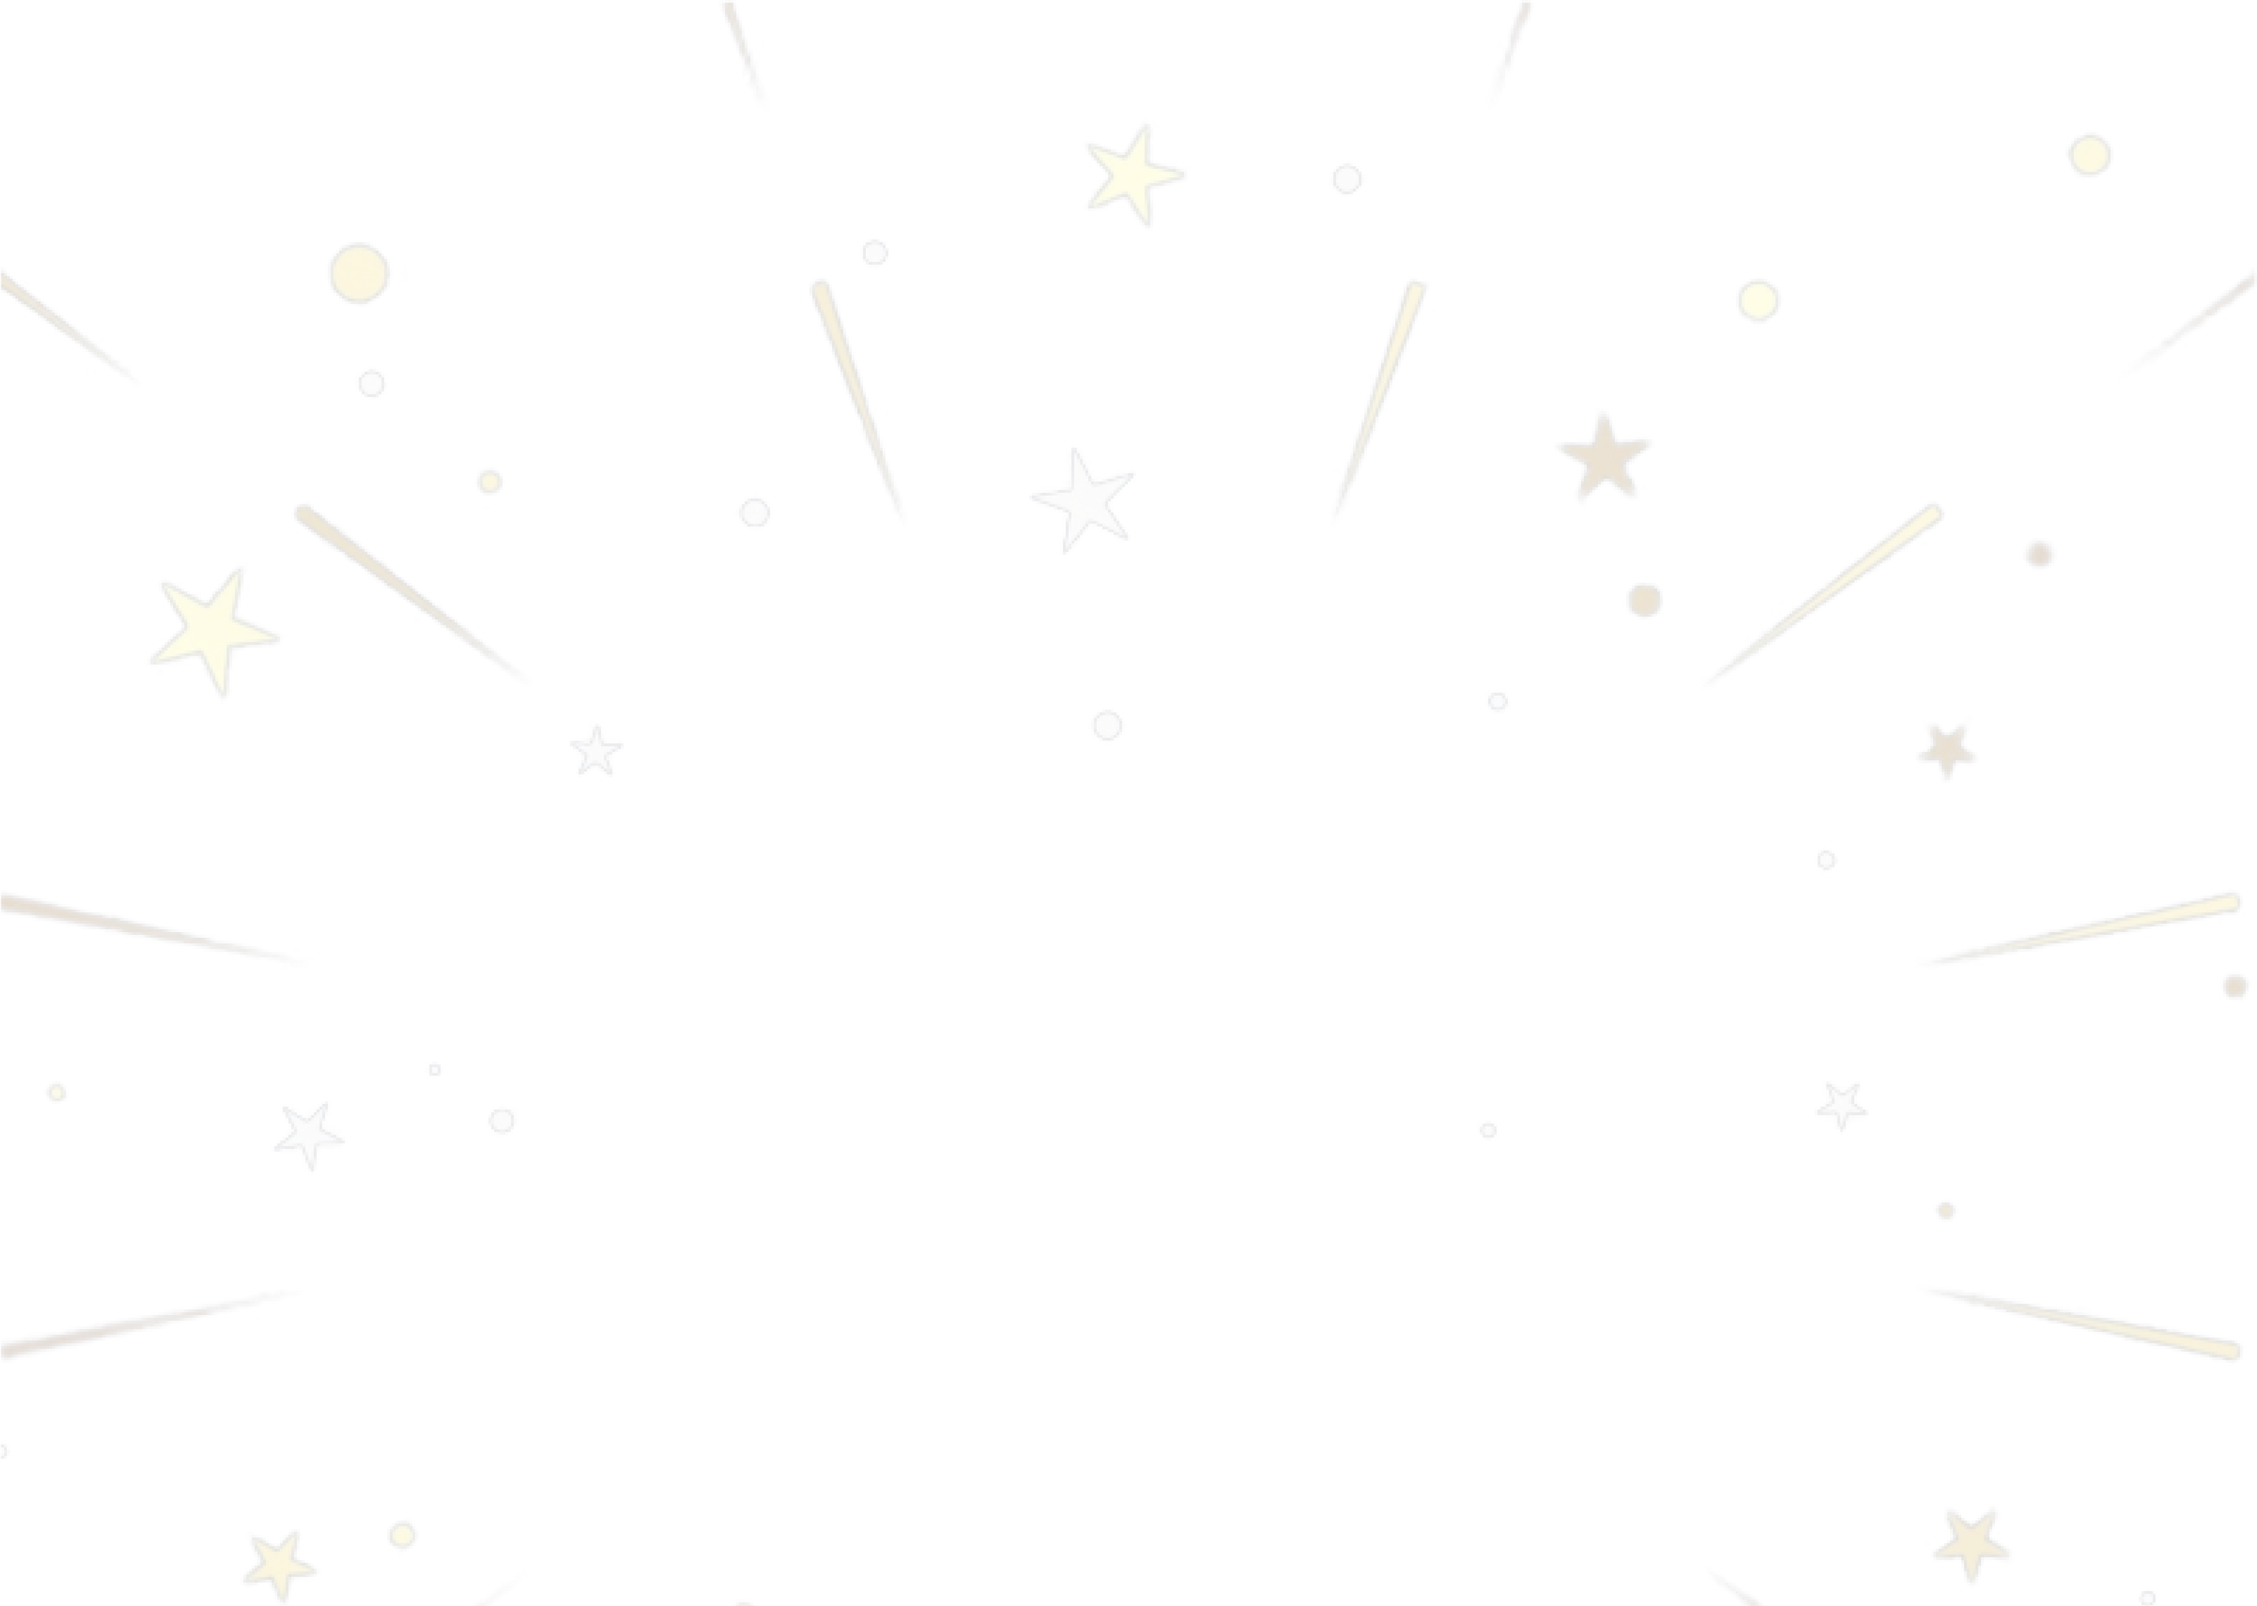
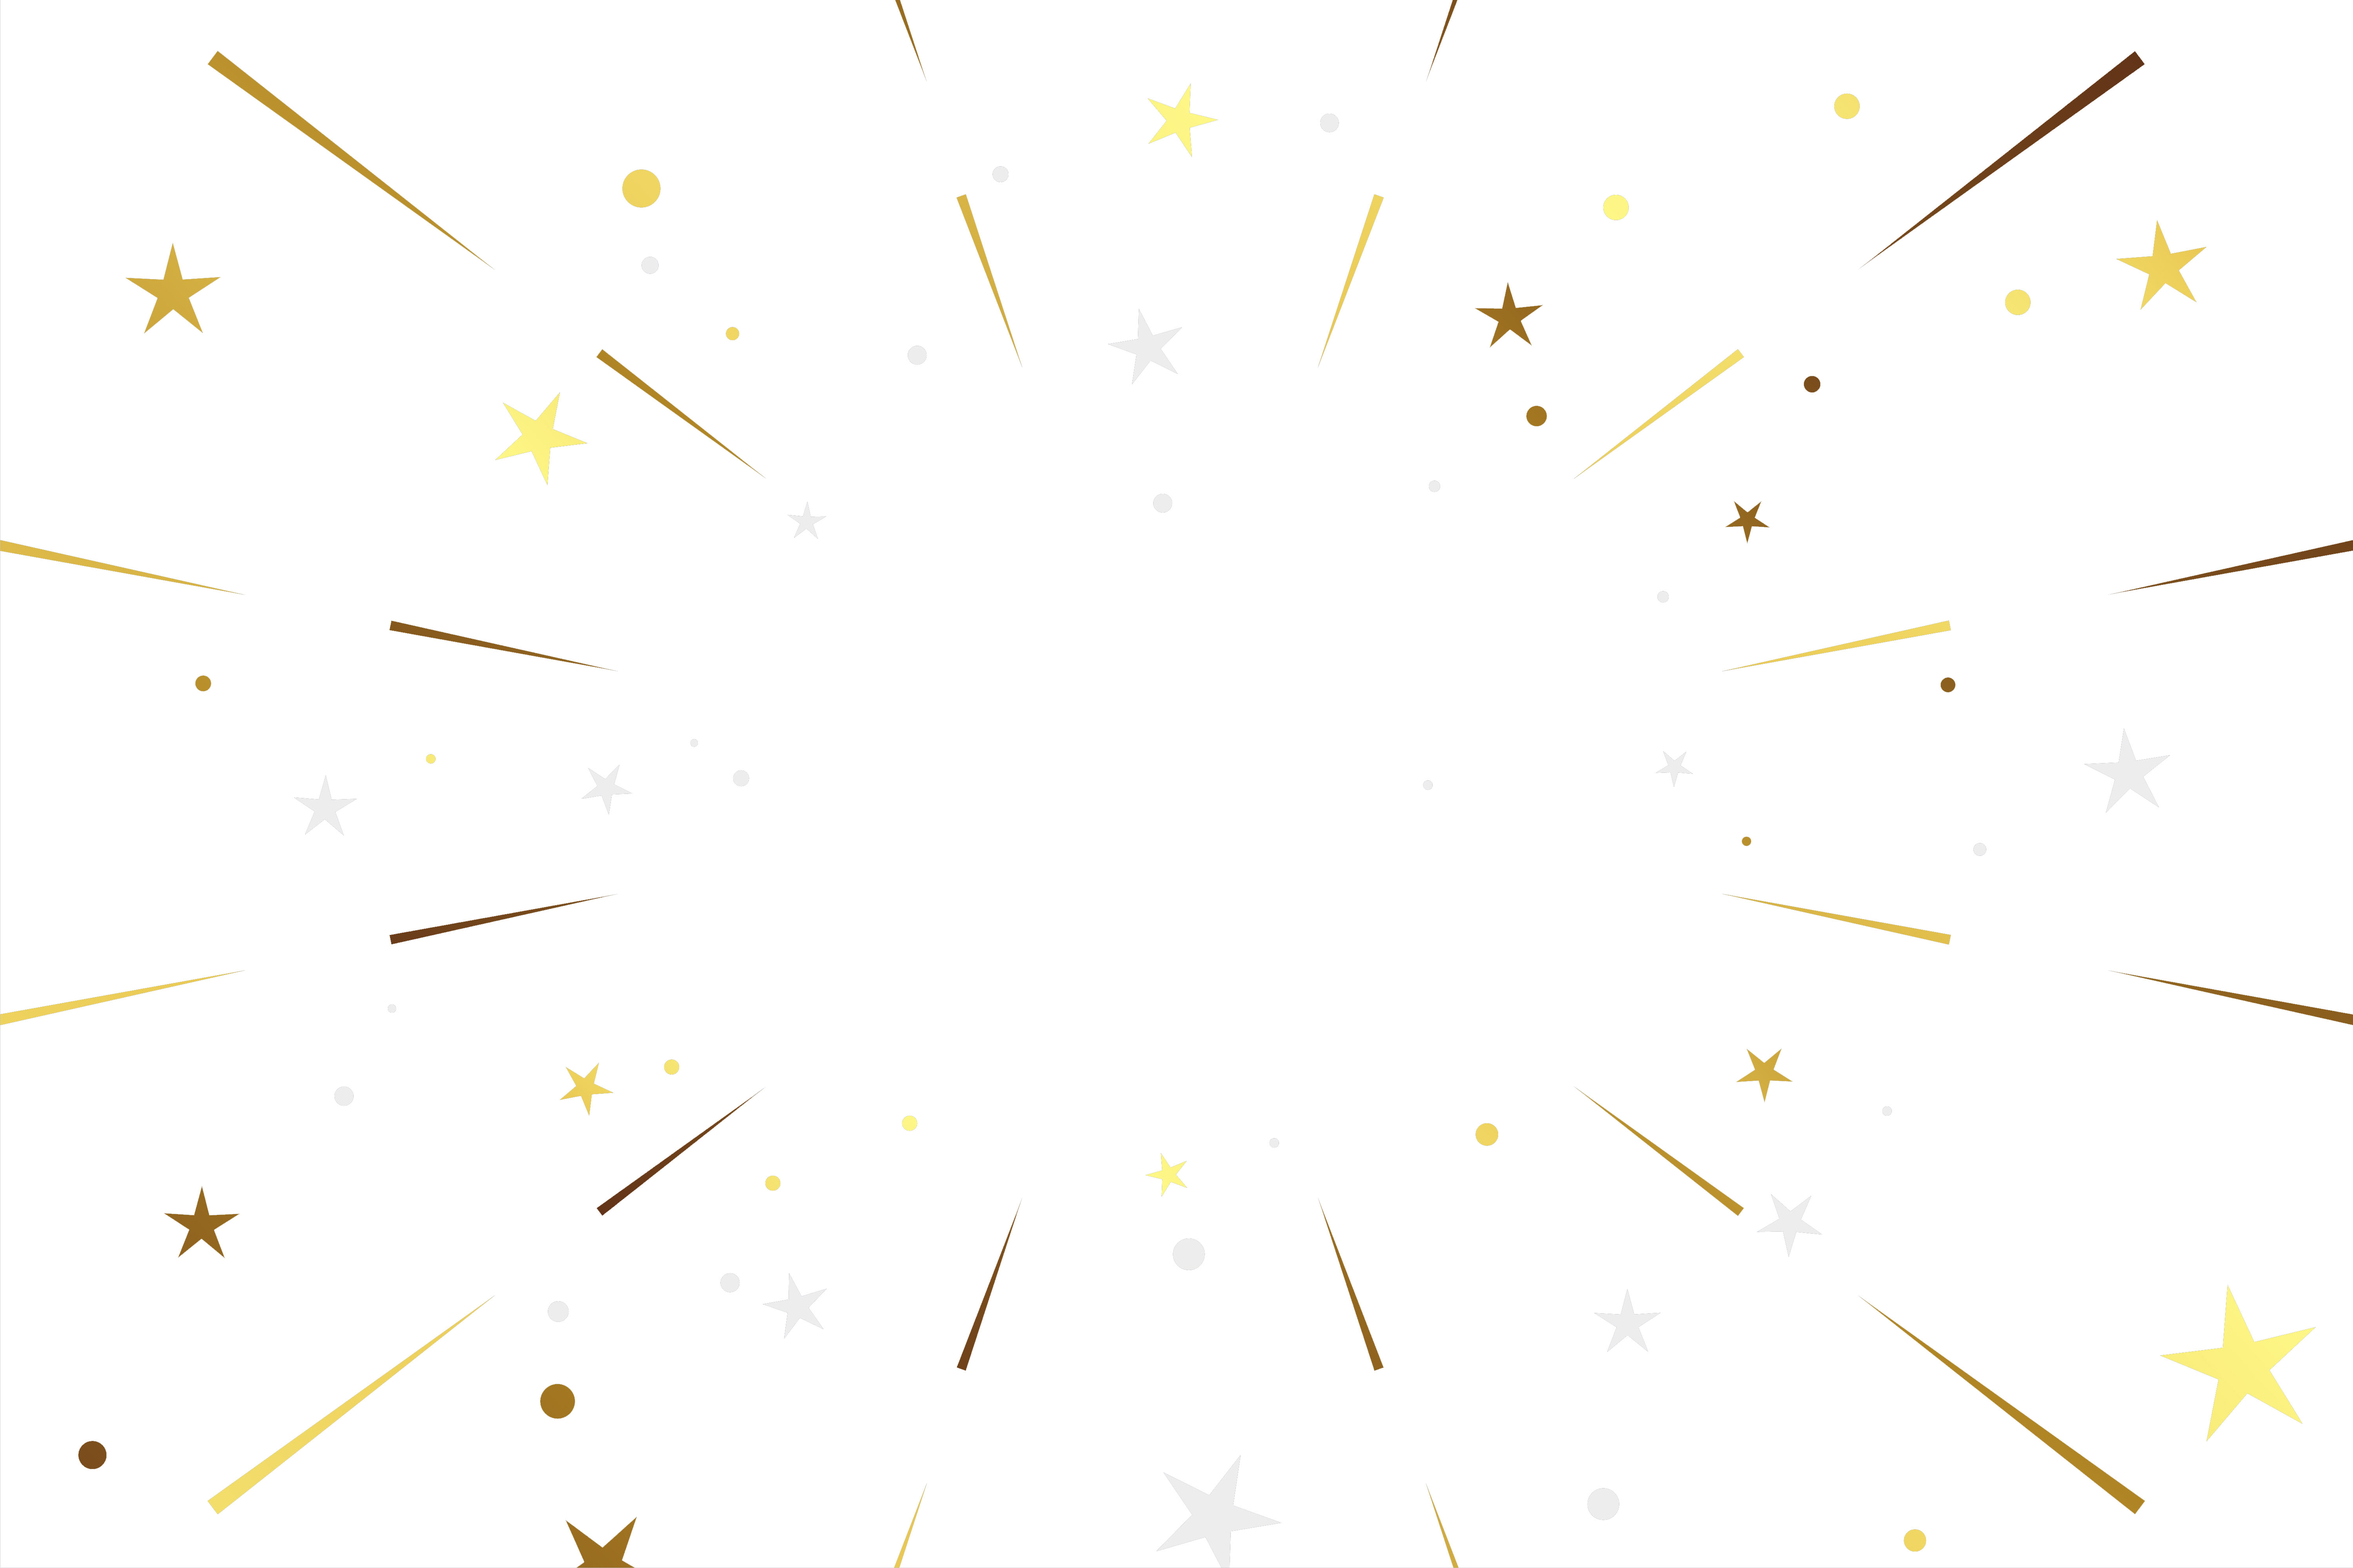
Update button color, font and images

diff --git a/src/components/layouts/Header/components/countdown.jsx b/src/components/layouts/Header/components/countdown.jsx
@@ -27,25 +27,25 @@ const CountDown = ({date}) => {
         <div className="w-screen flex justify-center py-8 px-9">
             <div className="grid grid-flow-col gap-10 text-center auto-cols-max">
                 <div className="flex flex-col">
-                    <span className="countdown font-mono lg:text-7xl text-4xl">
+                    <span className="countdown lg:text-7xl text-4xl">
                     <span style={{"--value": countdown.days}}></span>
                     </span>
                     days
                 </div> 
                 <div className="flex flex-col">
-                    <span className="countdown font-mono lg:text-7xl text-4xl">
+                    <span className="countdown lg:text-7xl text-4xl">
                     <span style={{"--value": countdown.hours}}></span>
                     </span>
                     hours
                 </div> 
                 <div className="flex flex-col">
-                    <span className="countdown font-mono lg:text-7xl text-4xl">
+                    <span className="countdown lg:text-7xl text-4xl">
                     <span style={{"--value": countdown.minutes}}></span>
                     </span>
                     min
                 </div> 
                 <div className="flex flex-col">
-                    <span className="countdown font-mono lg:text-7xl text-4xl">
+                    <span className="countdown lg:text-7xl text-4xl">
                     <span style={{"--value": countdown.seconds}}></span>
                     </span>
                     sec

diff --git a/src/components/layouts/NavBar/index.jsx b/src/components/layouts/NavBar/index.jsx
@@ -18,7 +18,7 @@ const NavBar = () => {
                 </ul>
                 </div>
                 <Link href={"/"} className="btn btn-ghost normal-case text-xl">
-                    <img src="/logo192.png" className="w-24" />
+                    <img src="/logo192.png" className="w-40" />
                 </Link>
             </div>
             <div className="navbar-center hidden lg:flex px-5">
@@ -31,7 +31,7 @@ const NavBar = () => {
                 </ul>
             </div>
             <div className="navbar-end">
-                <a href="#" className="btn btn-sm border-none bg-red-500 hover:bg-red-600">Connect</a>
+                <a href="#" className="btn border-none bg-red-500 hover:bg-red-600">Connect</a>
             </div>
         </div>
     )

diff --git a/src/pages/_document.js b/src/pages/_document.js
@@ -5,6 +5,9 @@ export default function Document() {
     <Html lang="en" data-theme="light">
       <Head>
         <link rel="shortcut icon" href="/logo_square.png"  />
+        <link rel="preconnect" href="https://fonts.googleapis.com" />
+        <link rel="preconnect" href="https://fonts.gstatic.com" crossorigin />
+        <link href="https://fonts.googleapis.com/css2?family=Jura:wght@300;500;700&display=swap" rel="stylesheet" />
       </Head>
       <body>
         <Main />

diff --git a/src/components/layouts/Header/index.jsx b/src/components/layouts/Header/index.jsx
@@ -17,7 +17,7 @@ const Header = () => {
         <div id="header" style={headerBgStyle} className="text-gray-800 w-screen">
             <HeaderText />
             <CountDown 
-                date={moment('2023-04-21T10:00:00').toDate()}
+                date={moment('2023-04-29T10:00:00').toDate()}
             />
             <hr class="h-1 my-4 rounded-full bg-gradient-to-r from-red-500 to-pink-500 animate-pulse" />
         </div>

diff --git a/src/components/layouts/Footer/index.jsx b/src/components/layouts/Footer/index.jsx
@@ -3,7 +3,7 @@ import { FaDiscord, FaFacebook, FaTwitter } from  "react-icons/fa"
 const Footer = () => {
 
     return (
-        <div className="w-full">
+        <div className="w-full bg-white">
             <hr class="h-1 rounded-full bg-gradient-to-r from-red-500 to-pink-500 animate-pulse" />
 
             <div className="flex justify-center gap-8 py-3">

diff --git a/tailwind.config.js b/tailwind.config.js
@@ -12,6 +12,11 @@ module.exports = {
         'gradient-conic':
           'conic-gradient(from 180deg at 50% 50%, var(--tw-gradient-stops))',
       },
+      colors: {
+        'red':{
+          500: '#ff003c',
+        }
+      }
     },
   },
   plugins: [require('daisyui')],

diff --git a/src/pages/mint.js b/src/pages/mint.js
@@ -7,7 +7,8 @@ const Mint = () => {
     const BgStyle = {
         backgroundImage: 'url(/images/bg.png)',
         backgroundRepeat: 'no-repeat',
-        backgroundSize: 'cover'
+        backgroundSize: 'cover',
+        backgroundPosition: 'center'
     };
 
     return (

diff --git a/src/styles/globals.css b/src/styles/globals.css
@@ -24,4 +24,5 @@ body {
       rgb(var(--background-end-rgb))
     )
     rgb(var(--background-start-rgb));
+    font-family: 'Jura', sans-serif;
 }
